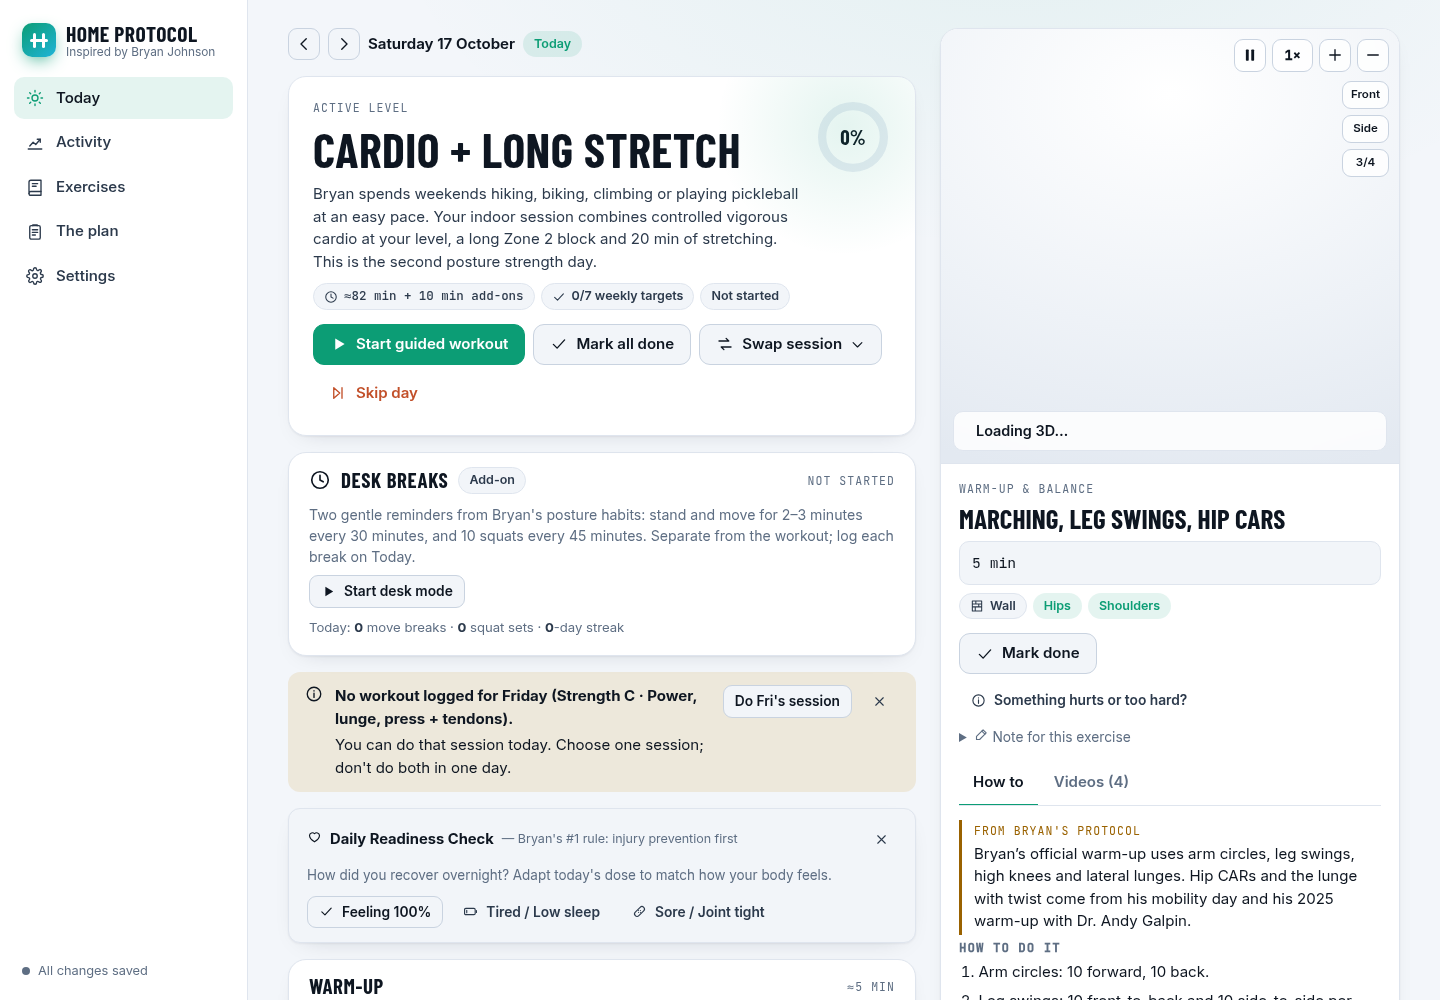
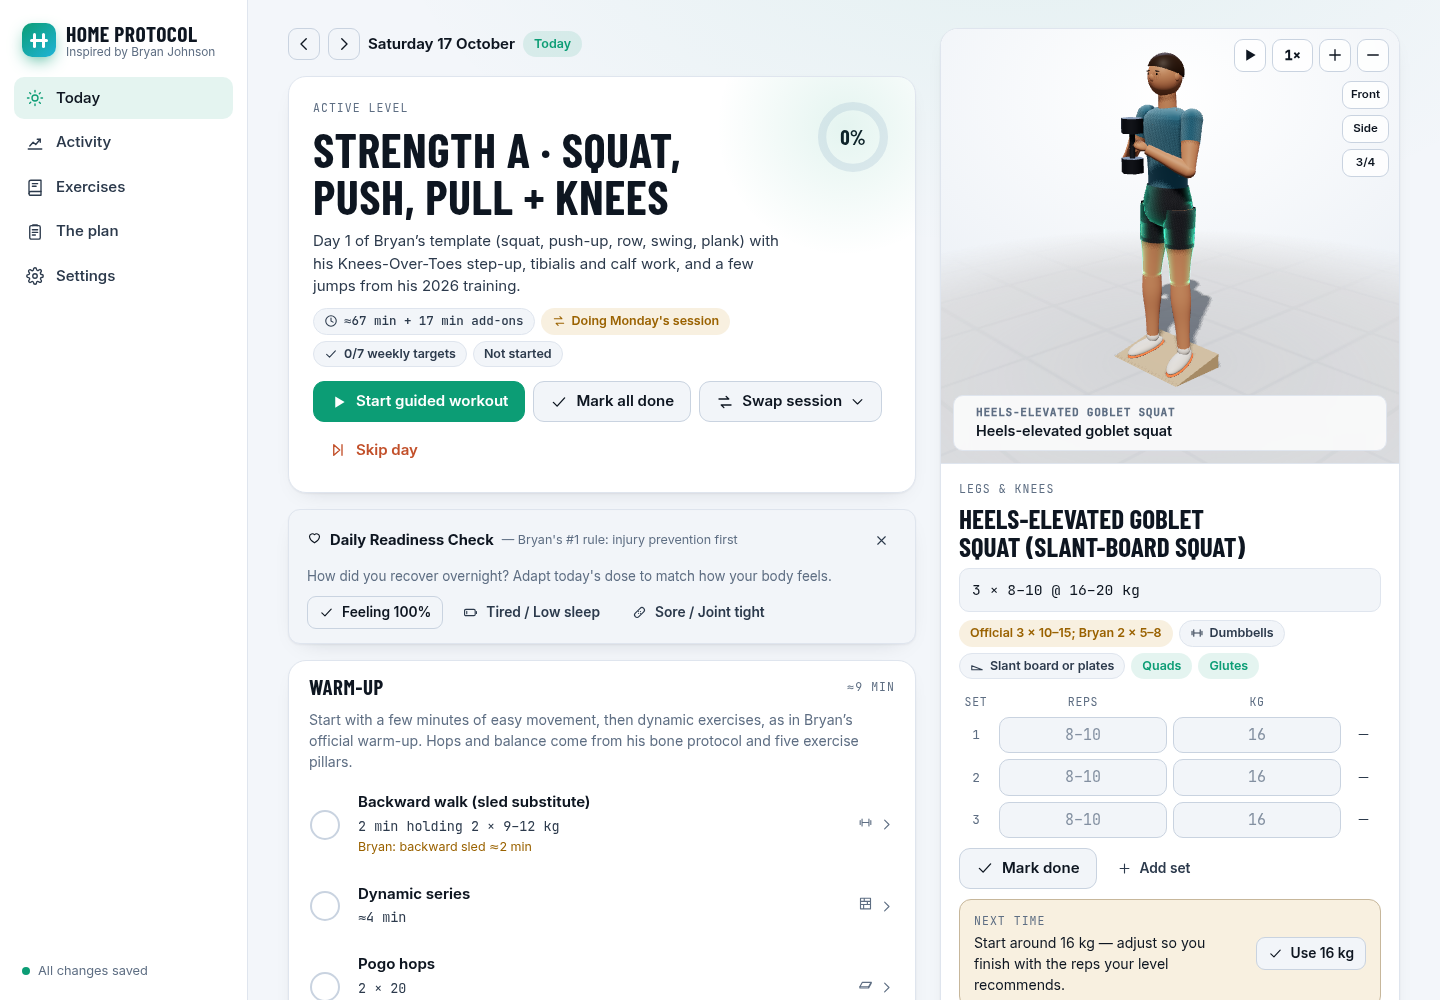
Restore desk break placement and capture loaded README animation

Changed region(s): [[0.1875, 0.124, 0.9688, 1.0], [0.6562, 0.031, 0.9688, 0.434], [0.6562, 0.465, 0.9062, 0.744]]

diff --git a/public/js/views/today.js b/public/js/views/today.js
@@ -115,7 +115,7 @@ export function render(el, params) {
     </section>`;
   }
 
-  // Desk breaks stays above the workout, with its own countdowns and daily count.
+  // Desk breaks follows the other add-ons, with its own countdowns and daily count.
   function deskAddonHtml(entry) {
     if (date !== todayIso()) return "";
     const { addon, optional } = entry;
@@ -400,7 +400,6 @@ export function render(el, params) {
             ${isToday ? '<span class="chip accent">Today</span>' : `<a class="btn sm ghost" href="#/today">Back to today</a>`}
           </div>
           ${heroHtml(ctx)}
-          ${addonsForDate(date).filter((a) => a.addon.id === "desk").map(deskAddonHtml).join("")}
           ${skipBanner()}
           ${breakBanner(ctx)}
           ${missedHint(ctx)}
@@ -410,6 +409,7 @@ export function render(el, params) {
         <div class="day-list">
           ${showBlocks ? blocksHtml(ctx.def, ctx.level) : ""}
           ${addonsForDate(date).filter((a) => a.addon.id !== "desk").map((a) => addonHtml(a, ctx.level)).join("")}
+          ${addonsForDate(date).filter((a) => a.addon.id === "desk").map(deskAddonHtml).join("")}
           ${obsHtml()}
         </div>
         <div class="detail-col"><div data-panel-host></div></div>

diff --git a/README.md b/README.md
@@ -318,7 +318,7 @@ Add-ons are optional blocks shown after the main session, picked on first run (a
 
 **Posture correction** (included): 8–10 minutes a day from Bryan's posture guide (string cue, wall slides, band pull-aparts, face pulls, external rotation, gentle neck work) with his two physical-therapist exercises to fatigue on Wednesday and Saturday, plus chin tucks and a doorway stretch marked as "classic, not Bryan's". It also tracks neck stiffness (0–10) and reminds you every two weeks to take a side photo and do a wall check.
 
-**Desk breaks** (separate add-on, off until you turn it on): two gentle countdowns from Bryan's posture habits — stand and move 2–3 minutes every 30 minutes, and 10 squats every 45 minutes. Its card stays above the workout on **Today**, including before you start, during training and after finishing. Tap **Done** to log a break, or **Not now, 5 min** to keep the log honest and be reminded again shortly. The countdowns pause while a workout is under way and resume afterwards. Today shows your daily count and streak; it is separate from the workout and adds no training volume. In **Settings → During workouts** you can turn on optional browser notifications so a due break reaches you while the app is in another window (off by default; the browser asks for permission).
+**Desk breaks** (separate add-on, off until you turn it on): two gentle countdowns from Bryan's posture habits — stand and move 2–3 minutes every 30 minutes, and 10 squats every 45 minutes. Its card sits after the other add-ons on **Today** and stays available before, during and after the workout. Tap **Done** to log a break, or **Not now, 5 min** to keep the log honest and be reminded again shortly. The countdowns pause while a workout is under way and resume afterwards. Today shows your daily count and streak; it is separate from the workout and adds no training volume. In **Settings → During workouts** you can turn on optional browser notifications so a due break reaches you while the app is in another window (off by default; the browser asks for permission).
 
 **Bone density protocol** (separate add-on, off until enabled): 3–4 minutes of targeted high-impact mechanical shock to trigger bone remodeling and mineral deposition, from Bryan's April 2026 bone health protocol. Includes heel drops & stomp drills (osteogenic shockwaves), pogo hops and snap-down jump landing drills. It also reminds you periodically about DEXA scan benchmarking and bone-supporting nutrition.
 

diff --git a/CHANGELOG.md b/CHANGELOG.md
@@ -1,5 +1,11 @@
 # Changelog
 
+## [1.22.1] - 2026-10-17
+
+### Fixed
+- Desk breaks appears after the other add-ons on Today and remains available throughout the day.
+- The README's main screenshot shows the exercise animation after it has loaded.
+
 ## [1.22.0] - 2026-10-17
 
 ### Added
